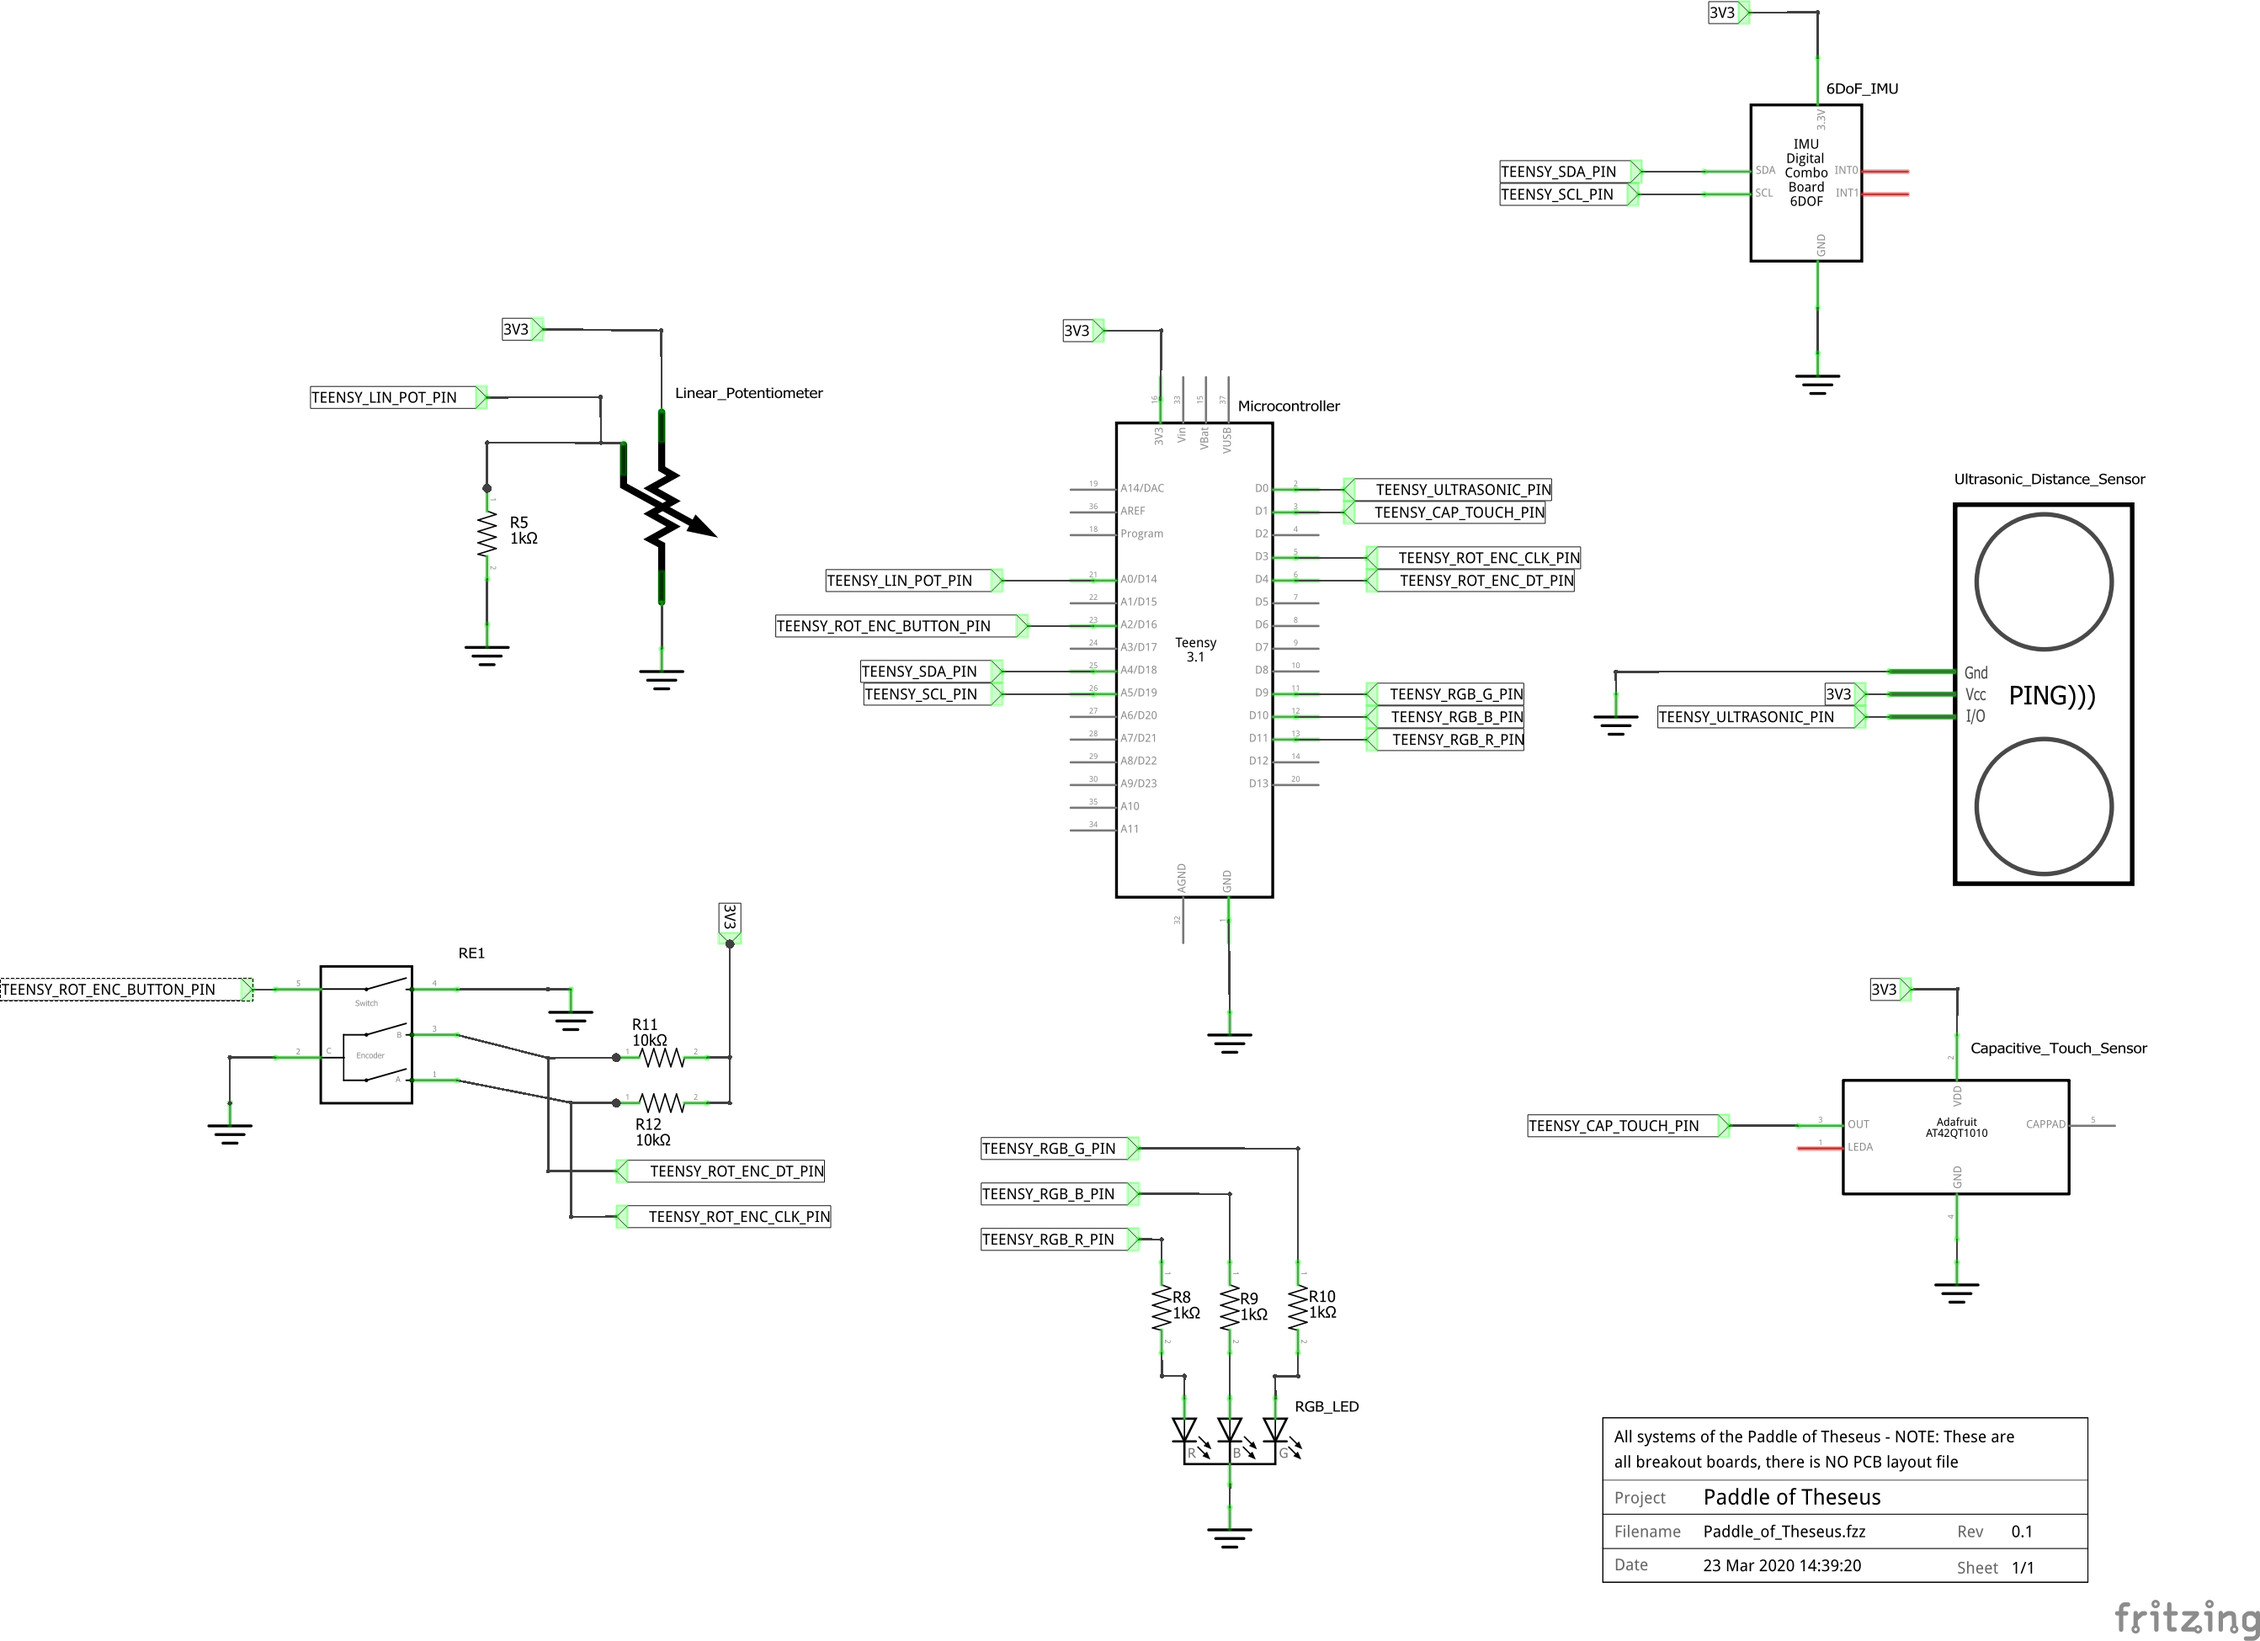
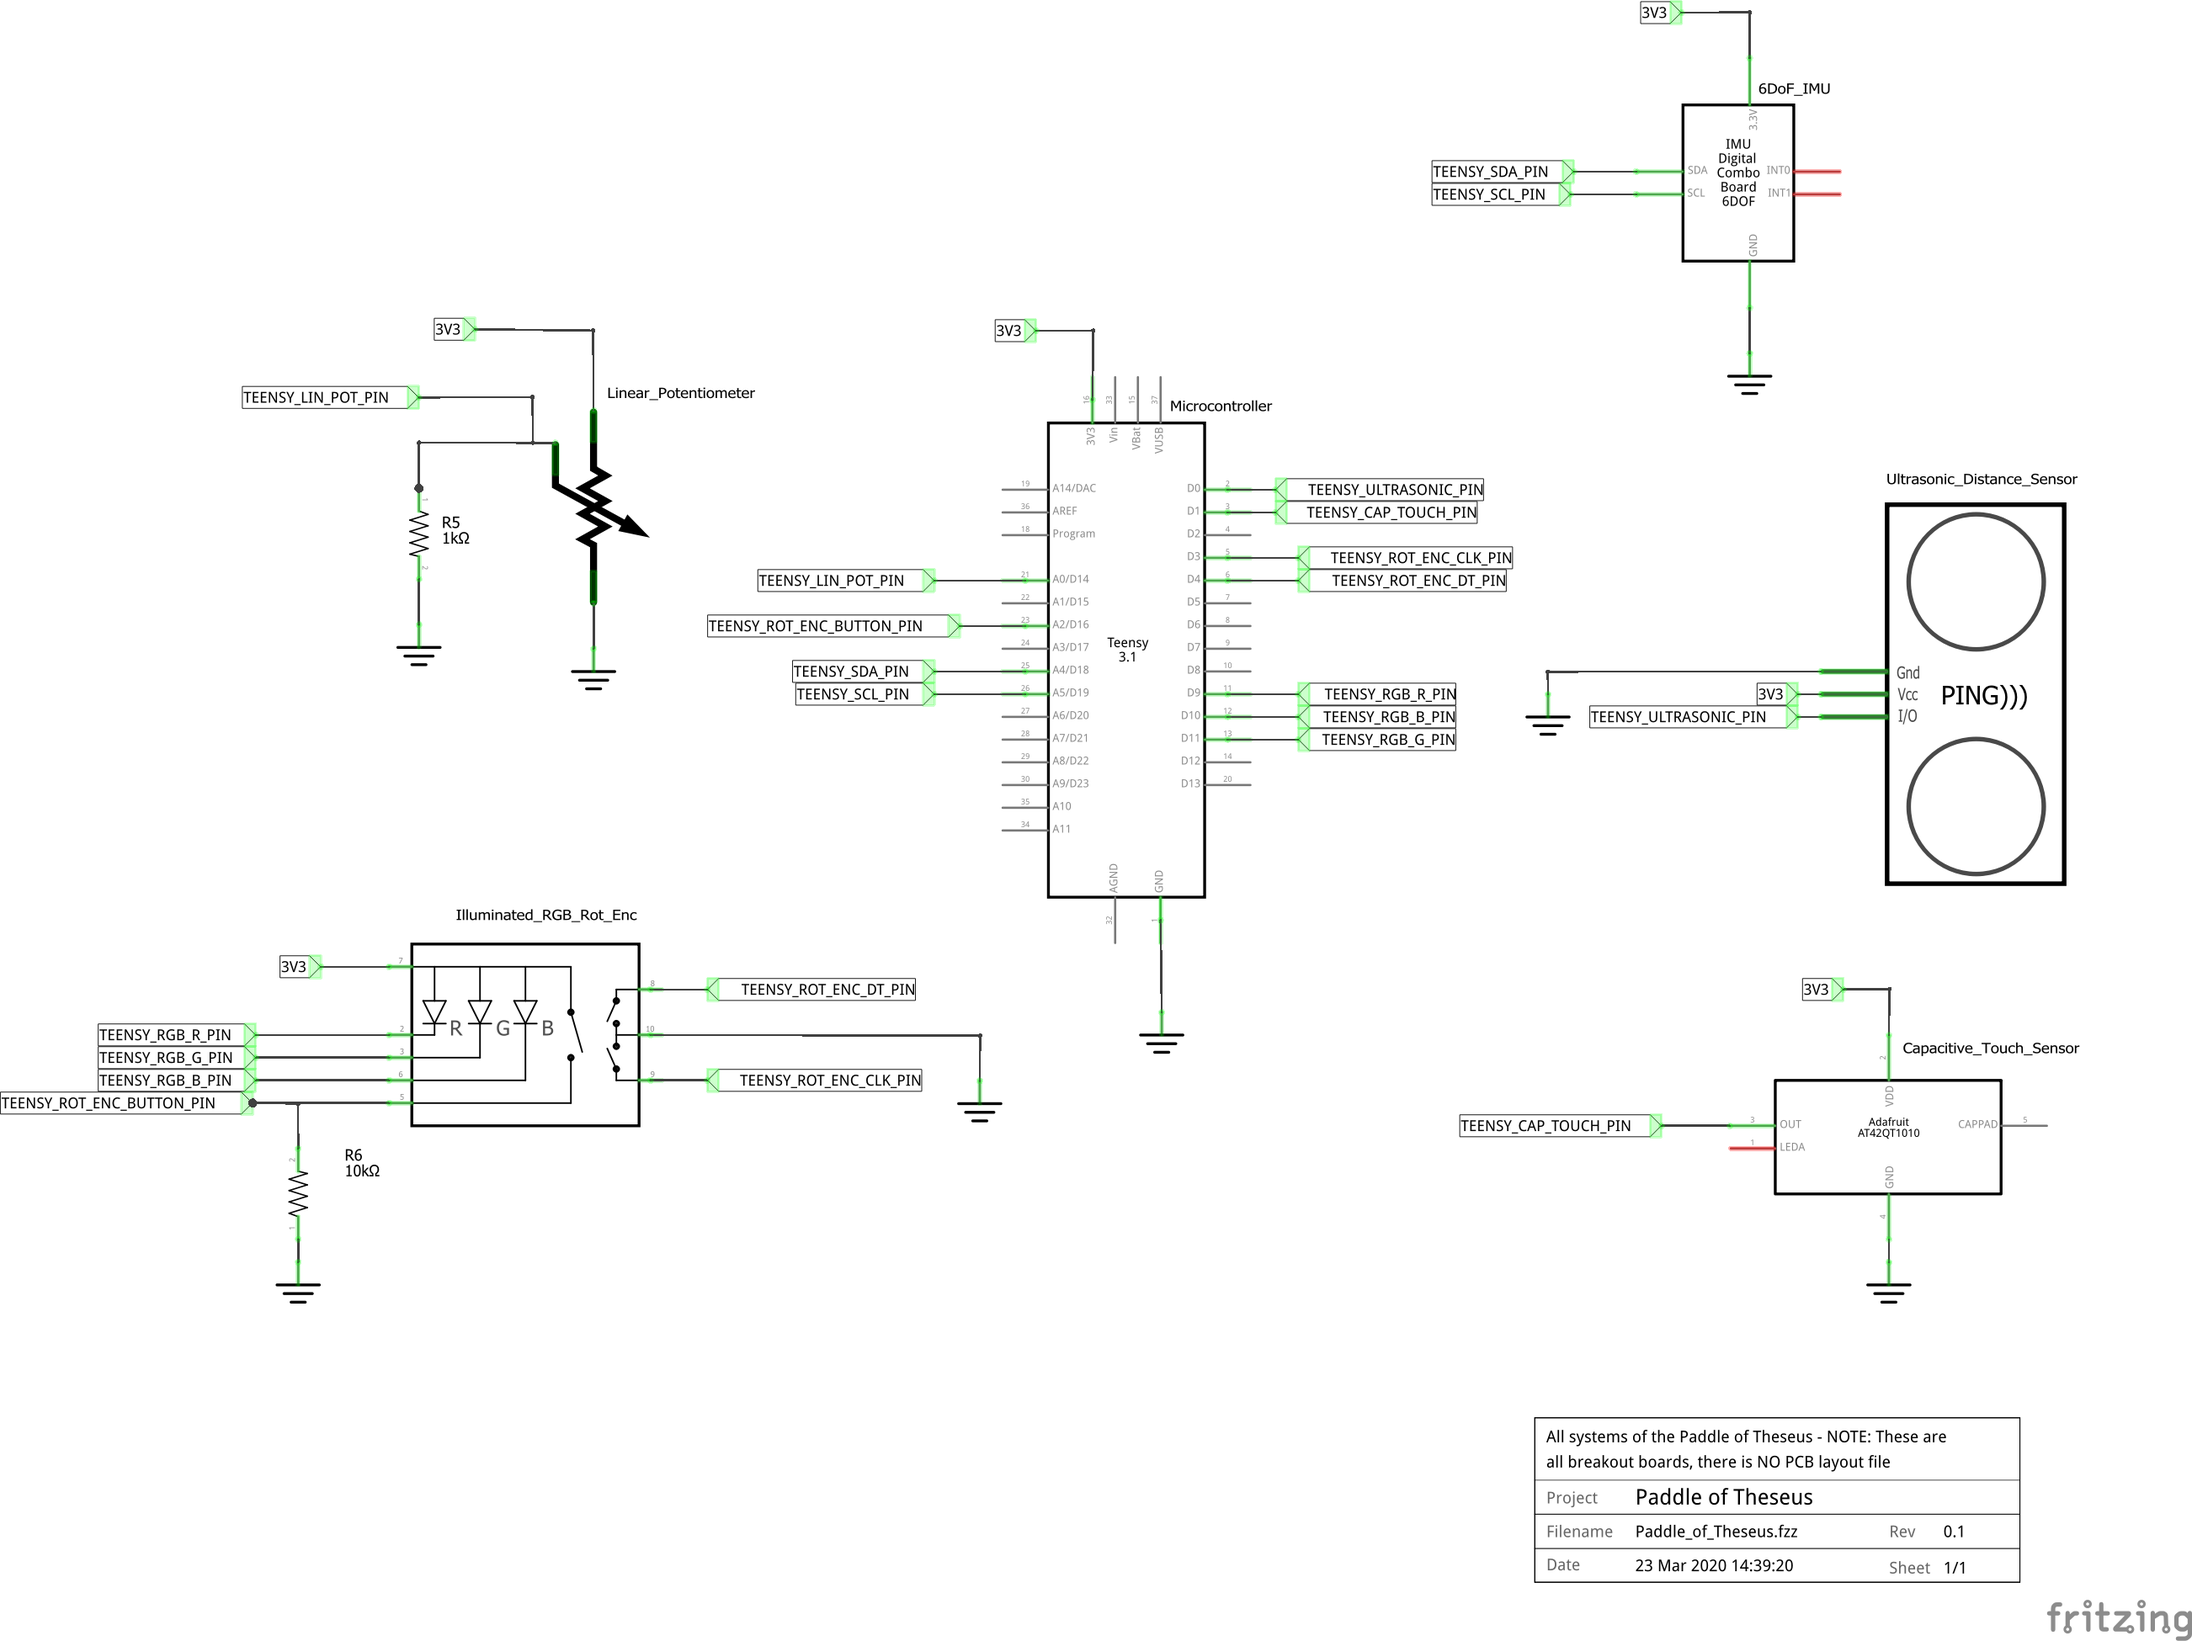
Replace generic Bourns Rotary_Encoder with SparkFun RGB Rotary_Encoder, add color code
This change now allows for a twistable and pushable rotary encoder that gracefully displays its state via the knob itself changing color. This required the following:
* Change to the hardware and resulting Fritzing diagrams
* modifications to the SW to make use of the new RGB illumination *AND* change the switch to trigger on falling edge rather than rising edge
* Change to the README detailing the new purchases

diff --git a/Software/Main/Rotary_Encoder.h b/Software/Main/Rotary_Encoder.h
@@ -27,6 +27,18 @@ enum rot_enc_state {
   ROT_ENC_ENUM_SIZE
 };
 
+/* LED RGB colors (assumes common anode, as for Sparkfun COM-10982) */
+#define LED_OFF    0x7 //B111
+#define LED_RED    0x6 //B110
+#define LED_GREEN  0x5 //B101
+#define LED_YELLOW 0x4 //B100
+#define LED_BLUE   0x3 //B011
+#define LED_PURPLE 0x2 //B010
+#define LED_CYAN   0x1 //B001
+#define LED_WHITE  0x0 //B000
+
+const int rot_enc_led_color_array[ROT_ENC_ENUM_SIZE] = {LED_WHITE, LED_GREEN, LED_YELLOW, LED_RED, LED_PURPLE};
+
 char rot_enc_ctrl_change[ROT_ENC_ENUM_SIZE] = {0x14, 0x15, 0x16, 0x17};
 
 #endif // __ROT_ENC_H__

diff --git a/README.md b/README.md
@@ -34,11 +34,14 @@ You will need the following to run this project
 - 1x [6DoF IMU](https://www.sparkfun.com/products/retired/10121) or equivalent
 - 1x [ThinPot Linear Potentiometer](https://www.digikey.com/en/product-highlight/s/spectra-symbol/thinpot-potentiometers)
 - 1x [Instantaneous Capacitive Touch Sensors](https://www.adafruit.com/product/1374) **NOTE: This may become 4 of the same model**
-- 1x [Rotary Encoder](https://www.digikey.com/product-detail/en/bourns-inc/PEC11L-4215F-S0015/PEC11L-4215F-S0015-ND/4699176)
+- 1x [RGB Common-Anode Illuminated Rotary Encoder](https://www.sparkfun.com/products/15141)
+- 1x [Clear Plastic Rotary Encoder Knob](https://www.sparkfun.com/products/10597)
+- 1x [Illuminated Rotary Encoder Breakout Board](https://www.sparkfun.com/products/11722)
+- 1x [USB Panel Mount Extension Cable](https://www.adafruit.com/product/3258)
 - Audio Software that supports MIDI (I use Ableton Live 8)
 
 ### Assembly
-Assemble the Sensors and Teensy according to the *TODO Wiring Diagram*, paying special attention to the labeled inputs.
+Assemble the Sensors and Teensy according to the schematic and breadboard diagrams in */Hardware/Diagrams*, paying special attention to the labeled inputs.
 
 ## Getting Started
 - Download All Software Requirements above
